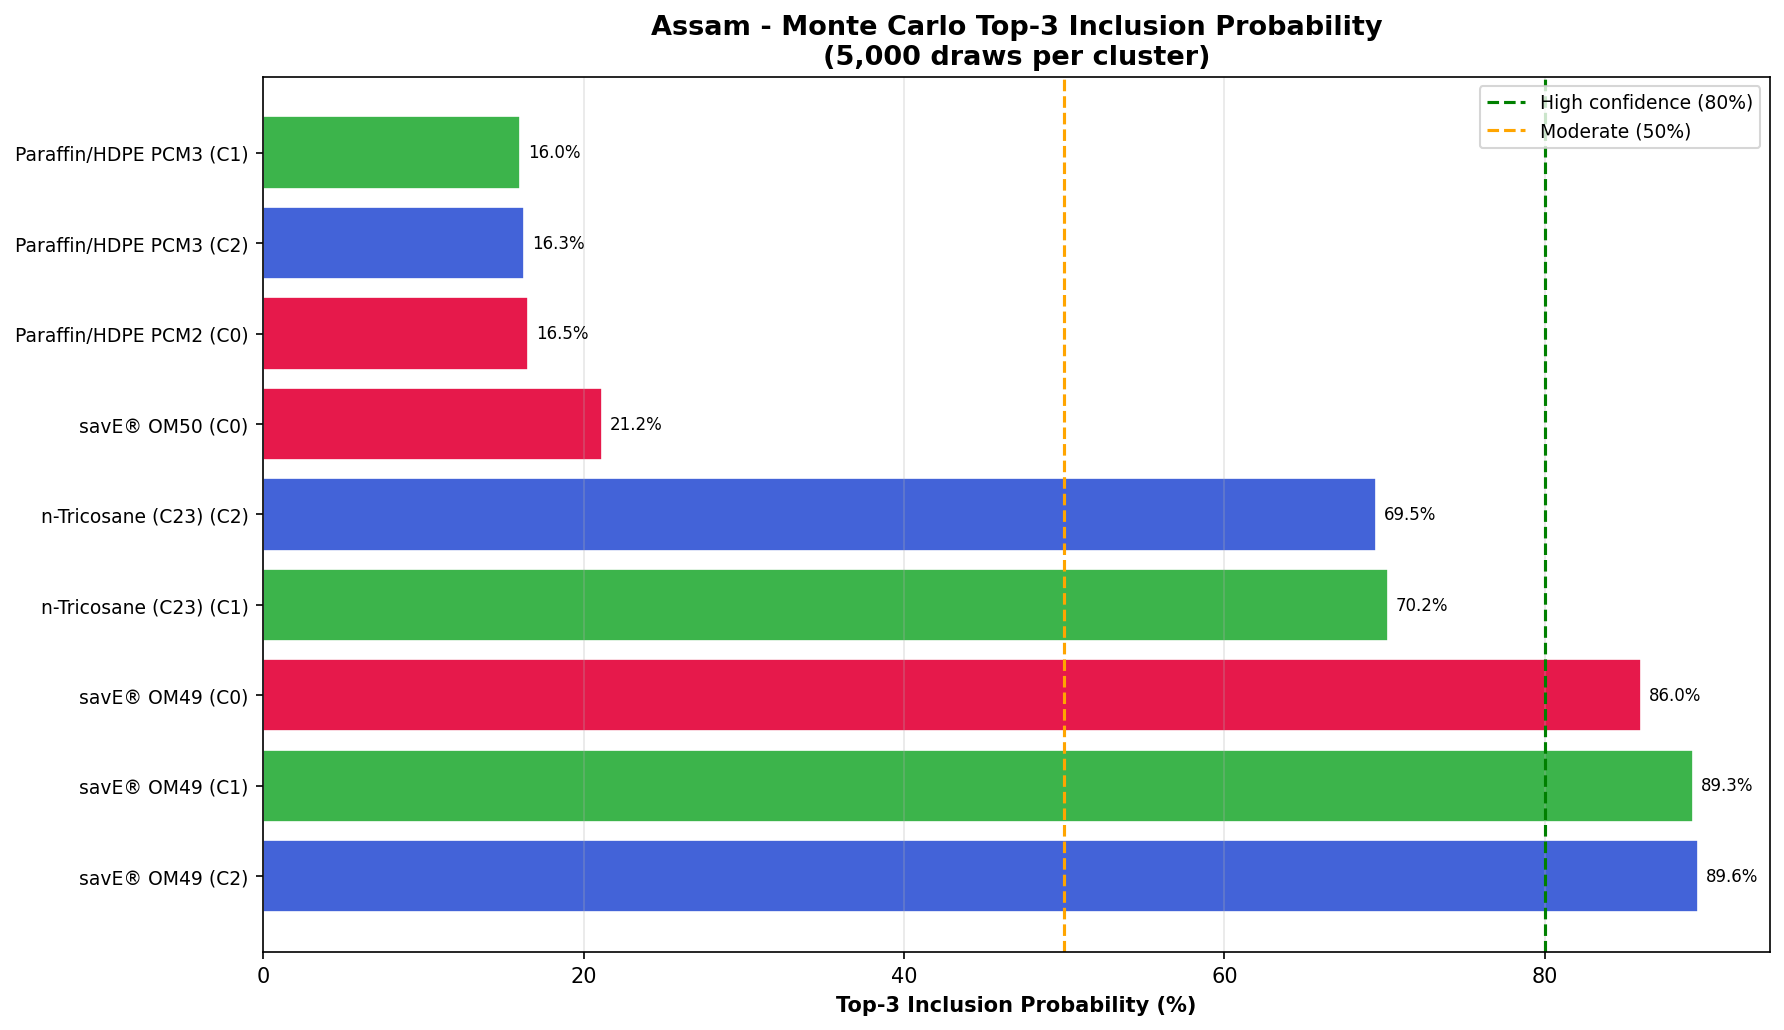
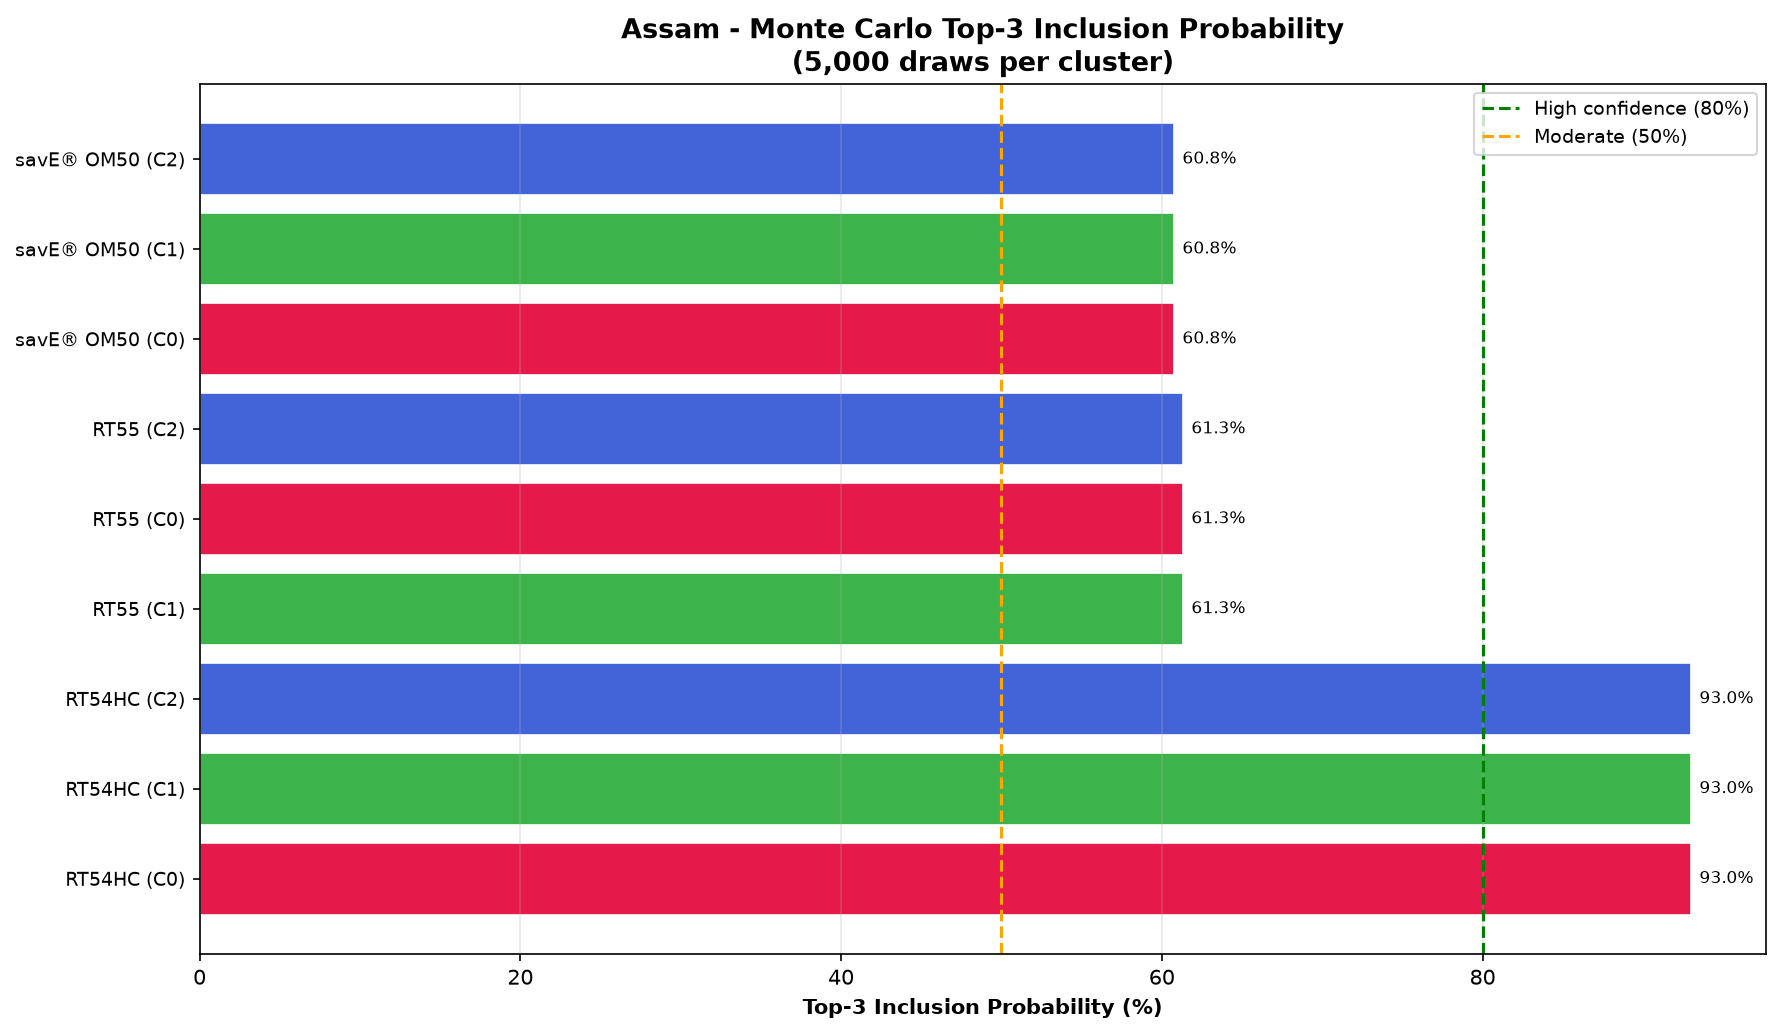
chore(plots): add Assam Monte Carlo Top-3 inclusion plot (5,000 draws)

diff --git a/public/plots/assam/09_monte_carlo_top3_probability_interactive.html b/public/plots/assam/09_monte_carlo_top3_probability_interactive.html
@@ -6,6 +6,6 @@
 </head>
 <body>
     <div style="height:600px; width:100%;">                        <script>window.PlotlyConfig = {MathJaxConfig: 'local'};</script>
-        <script charset="utf-8" src="https://cdn.plot.ly/plotly-4.1.1.min.js" integrity="sha256-O24V1F27f8pb0glCkelh3cVHLNiHAJ5gCaVtq2aNch8=" crossorigin="anonymous"></script>                <div id="2d48a1cb-5ec1-486a-86c3-a5f1083ad36d" class="plotly-graph-div" style="height:100%; width:100%;"></div>            <script>                window.PLOTLYENV=window.PLOTLYENV || {};                                if (document.getElementById("2d48a1cb-5ec1-486a-86c3-a5f1083ad36d")) {                    Plotly.newPlot(                        "2d48a1cb-5ec1-486a-86c3-a5f1083ad36d",                        [{"hovertemplate":"Cluster=2\u003cbr\u003eTop-3 Inclusion Probability (%)=%{x}\u003cbr\u003ePCM Candidate=%{y}\u003cextra\u003e\u003c\u002fextra\u003e","legendgroup":"2","marker":{"color":"rgb(228,26,28)","pattern":{"shape":""}},"name":"2","orientation":"h","showlegend":true,"textposition":"auto","x":{"dtype":"f8","bdata":"pHA9CtdjVkAfhetRuF5RQEjhehSuRzBA"},"xaxis":"x","y":["savE® OM49","n-Tricosane (C23)","Paraffin\u002fHDPE PCM3"],"yaxis":"y","type":"bar"},{"hovertemplate":"Cluster=1\u003cbr\u003eTop-3 Inclusion Probability (%)=%{x}\u003cbr\u003ePCM Candidate=%{y}\u003cextra\u003e\u003c\u002fextra\u003e","legendgroup":"1","marker":{"color":"rgb(55,126,184)","pattern":{"shape":""}},"name":"1","orientation":"h","showlegend":true,"textposition":"auto","x":{"dtype":"f8","bdata":"cD0K16NQVkDMzMzMzIxRQIXrUbgeBTBA"},"xaxis":"x","y":["savE® OM49","n-Tricosane (C23)","Paraffin\u002fHDPE PCM3"],"yaxis":"y","type":"bar"},{"hovertemplate":"Cluster=0\u003cbr\u003eTop-3 Inclusion Probability (%)=%{x}\u003cbr\u003ePCM Candidate=%{y}\u003cextra\u003e\u003c\u002fextra\u003e","legendgroup":"0","marker":{"color":"rgb(77,175,74)","pattern":{"shape":""}},"name":"0","orientation":"h","showlegend":true,"textposition":"auto","x":{"dtype":"f8","bdata":"AAAAAACAVUApXI\u002fC9Sg1QIbrUbgehTBA"},"xaxis":"x","y":["savE® OM49","savE® OM50","Paraffin\u002fHDPE PCM2"],"yaxis":"y","type":"bar"}],                        {"template":{"data":{"barpolar":[{"marker":{"line":{"color":"white","width":0.5},"pattern":{"fillmode":"overlay","size":10,"solidity":0.2}},"type":"barpolar"}],"bar":[{"error_x":{"color":"#2a3f5f"},"error_y":{"color":"#2a3f5f"},"marker":{"line":{"color":"white","width":0.5},"pattern":{"fillmode":"overlay","size":10,"solidity":0.2}},"type":"bar"}],"carpet":[{"aaxis":{"endlinecolor":"#2a3f5f","gridcolor":"#C8D4E3","linecolor":"#C8D4E3","minorgridcolor":"#C8D4E3","startlinecolor":"#2a3f5f"},"baxis":{"endlinecolor":"#2a3f5f","gridcolor":"#C8D4E3","linecolor":"#C8D4E3","minorgridcolor":"#C8D4E3","startlinecolor":"#2a3f5f"},"type":"carpet"}],"choropleth":[{"colorbar":{"outlinewidth":0,"ticks":""},"type":"choropleth"}],"contourcarpet":[{"colorbar":{"outlinewidth":0,"ticks":""},"type":"contourcarpet"}],"contour":[{"colorbar":{"outlinewidth":0,"ticks":""},"colorscale":[[0.0,"#0d0887"],[0.1111111111111111,"#46039f"],[0.2222222222222222,"#7201a8"],[0.3333333333333333,"#9c179e"],[0.4444444444444444,"#bd3786"],[0.5555555555555556,"#d8576b"],[0.6666666666666666,"#ed7953"],[0.7777777777777778,"#fb9f3a"],[0.8888888888888888,"#fdca26"],[1.0,"#f0f921"]],"type":"contour"}],"heatmap":[{"colorbar":{"outlinewidth":0,"ticks":""},"colorscale":[[0.0,"#0d0887"],[0.1111111111111111,"#46039f"],[0.2222222222222222,"#7201a8"],[0.3333333333333333,"#9c179e"],[0.4444444444444444,"#bd3786"],[0.5555555555555556,"#d8576b"],[0.6666666666666666,"#ed7953"],[0.7777777777777778,"#fb9f3a"],[0.8888888888888888,"#fdca26"],[1.0,"#f0f921"]],"type":"heatmap"}],"histogram2dcontour":[{"colorbar":{"outlinewidth":0,"ticks":""},"colorscale":[[0.0,"#0d0887"],[0.1111111111111111,"#46039f"],[0.2222222222222222,"#7201a8"],[0.3333333333333333,"#9c179e"],[0.4444444444444444,"#bd3786"],[0.5555555555555556,"#d8576b"],[0.6666666666666666,"#ed7953"],[0.7777777777777778,"#fb9f3a"],[0.8888888888888888,"#fdca26"],[1.0,"#f0f921"]],"type":"histogram2dcontour"}],"histogram2d":[{"colorbar":{"outlinewidth":0,"ticks":""},"colorscale":[[0.0,"#0d0887"],[0.1111111111111111,"#46039f"],[0.2222222222222222,"#7201a8"],[0.3333333333333333,"#9c179e"],[0.4444444444444444,"#bd3786"],[0.5555555555555556,"#d8576b"],[0.6666666666666666,"#ed7953"],[0.7777777777777778,"#fb9f3a"],[0.8888888888888888,"#fdca26"],[1.0,"#f0f921"]],"type":"histogram2d"}],"histogram":[{"marker":{"pattern":{"fillmode":"overlay","size":10,"solidity":0.2}},"type":"histogram"}],"mesh3d":[{"colorbar":{"outlinewidth":0,"ticks":""},"type":"mesh3d"}],"parcoords":[{"line":{"colorbar":{"outlinewidth":0,"ticks":""}},"type":"parcoords"}],"pie":[{"automargin":true,"type":"pie"}],"scatter3d":[{"line":{"colorbar":{"outlinewidth":0,"ticks":""}},"marker":{"colorbar":{"outlinewidth":0,"ticks":""}},"type":"scatter3d"}],"scattercarpet":[{"marker":{"colorbar":{"outlinewidth":0,"ticks":""}},"type":"scattercarpet"}],"scattergeo":[{"marker":{"colorbar":{"outlinewidth":0,"ticks":""}},"type":"scattergeo"}],"scattergl":[{"marker":{"colorbar":{"outlinewidth":0,"ticks":""}},"type":"scattergl"}],"scattermap":[{"marker":{"colorbar":{"outlinewidth":0,"ticks":""}},"type":"scattermap"}],"scatterpolargl":[{"marker":{"colorbar":{"outlinewidth":0,"ticks":""}},"type":"scatterpolargl"}],"scatterpolar":[{"marker":{"colorbar":{"outlinewidth":0,"ticks":""}},"type":"scatterpolar"}],"scatter":[{"fillpattern":{"fillmode":"overlay","size":10,"solidity":0.2},"type":"scatter"}],"scatterternary":[{"marker":{"colorbar":{"outlinewidth":0,"ticks":""}},"type":"scatterternary"}],"surface":[{"colorbar":{"outlinewidth":0,"ticks":""},"colorscale":[[0.0,"#0d0887"],[0.1111111111111111,"#46039f"],[0.2222222222222222,"#7201a8"],[0.3333333333333333,"#9c179e"],[0.4444444444444444,"#bd3786"],[0.5555555555555556,"#d8576b"],[0.6666666666666666,"#ed7953"],[0.7777777777777778,"#fb9f3a"],[0.8888888888888888,"#fdca26"],[1.0,"#f0f921"]],"type":"surface"}],"table":[{"cells":{"fill":{"color":"#EBF0F8"},"line":{"color":"white"}},"header":{"fill":{"color":"#C8D4E3"},"line":{"color":"white"}},"type":"table"}]},"layout":{"annotationdefaults":{"arrowcolor":"#2a3f5f","arrowhead":0,"arrowwidth":1},"autotypenumbers":"strict","coloraxis":{"colorbar":{"outlinewidth":0,"ticks":""}},"colorscale":{"diverging":[[0,"#8e0152"],[0.1,"#c51b7d"],[0.2,"#de77ae"],[0.3,"#f1b6da"],[0.4,"#fde0ef"],[0.5,"#f7f7f7"],[0.6,"#e6f5d0"],[0.7,"#b8e186"],[0.8,"#7fbc41"],[0.9,"#4d9221"],[1,"#276419"]],"sequential":[[0.0,"#0d0887"],[0.1111111111111111,"#46039f"],[0.2222222222222222,"#7201a8"],[0.3333333333333333,"#9c179e"],[0.4444444444444444,"#bd3786"],[0.5555555555555556,"#d8576b"],[0.6666666666666666,"#ed7953"],[0.7777777777777778,"#fb9f3a"],[0.8888888888888888,"#fdca26"],[1.0,"#f0f921"]],"sequentialminus":[[0.0,"#0d0887"],[0.1111111111111111,"#46039f"],[0.2222222222222222,"#7201a8"],[0.3333333333333333,"#9c179e"],[0.4444444444444444,"#bd3786"],[0.5555555555555556,"#d8576b"],[0.6666666666666666,"#ed7953"],[0.7777777777777778,"#fb9f3a"],[0.8888888888888888,"#fdca26"],[1.0,"#f0f921"]]},"colorway":["#636efa","#EF553B","#00cc96","#ab63fa","#FFA15A","#19d3f3","#FF6692","#B6E880","#FF97FF","#FECB52"],"font":{"color":"#2a3f5f"},"geo":{"bgcolor":"white","lakecolor":"white","landcolor":"white","showlakes":true,"showland":true,"subunitcolor":"#C8D4E3"},"hoverlabel":{"align":"left"},"hovermode":"closest","paper_bgcolor":"white","plot_bgcolor":"white","polar":{"angularaxis":{"gridcolor":"#EBF0F8","linecolor":"#EBF0F8","ticks":""},"bgcolor":"white","radialaxis":{"gridcolor":"#EBF0F8","linecolor":"#EBF0F8","ticks":""}},"scene":{"xaxis":{"backgroundcolor":"white","gridcolor":"#DFE8F3","gridwidth":2,"linecolor":"#EBF0F8","showbackground":true,"ticks":"","zerolinecolor":"#EBF0F8"},"yaxis":{"backgroundcolor":"white","gridcolor":"#DFE8F3","gridwidth":2,"linecolor":"#EBF0F8","showbackground":true,"ticks":"","zerolinecolor":"#EBF0F8"},"zaxis":{"backgroundcolor":"white","gridcolor":"#DFE8F3","gridwidth":2,"linecolor":"#EBF0F8","showbackground":true,"ticks":"","zerolinecolor":"#EBF0F8"}},"shapedefaults":{"line":{"color":"#2a3f5f"}},"ternary":{"aaxis":{"gridcolor":"#DFE8F3","linecolor":"#A2B1C6","ticks":""},"baxis":{"gridcolor":"#DFE8F3","linecolor":"#A2B1C6","ticks":""},"bgcolor":"white","caxis":{"gridcolor":"#DFE8F3","linecolor":"#A2B1C6","ticks":""}},"title":{"x":0.05},"xaxis":{"automargin":true,"gridcolor":"#EBF0F8","linecolor":"#EBF0F8","ticks":"","title":{"standoff":15},"zerolinecolor":"#EBF0F8","zerolinewidth":2},"yaxis":{"automargin":true,"gridcolor":"#EBF0F8","linecolor":"#EBF0F8","ticks":"","title":{"standoff":15},"zerolinecolor":"#EBF0F8","zerolinewidth":2}}},"xaxis":{"anchor":"y","domain":[0.0,1.0],"title":{"text":"Top-3 Inclusion Probability (%)"}},"yaxis":{"anchor":"x","domain":[0.0,1.0],"title":{"text":"PCM Candidate"}},"legend":{"title":{"text":"Cluster"},"tracegroupgap":0},"title":{"text":"Assam - Monte Carlo Top-3 Inclusion Probability (5,000 draws)"},"barmode":"relative","height":600},                        {"responsive": true}                    )                };            </script>        </div>
+        <script charset="utf-8" src="https://cdn.plot.ly/plotly-4.0.0.min.js" integrity="sha256-FEYfO0yRyLtZCpnW0Dw/0DHKQO7Afrq3ml4+rBB818o=" crossorigin="anonymous"></script>                <div id="6cae503c-4cd5-4c8a-b8fa-f261ff76f9f3" class="plotly-graph-div" style="height:100%; width:100%;"></div>            <script>                window.PLOTLYENV=window.PLOTLYENV || {};                                if (document.getElementById("6cae503c-4cd5-4c8a-b8fa-f261ff76f9f3")) {                    Plotly.newPlot(                        "6cae503c-4cd5-4c8a-b8fa-f261ff76f9f3",                        [{"hovertemplate":"Cluster=0\u003cbr\u003eTop-3 Inclusion Probability (%)=%{x}\u003cbr\u003ePCM Candidate=%{y}\u003cextra\u003e\u003c\u002fextra\u003e","legendgroup":"0","marker":{"color":"rgb(228,26,28)","pattern":{"shape":""}},"name":"0","orientation":"h","showlegend":true,"textposition":"auto","x":{"dtype":"f8","bdata":"4XoUrkdBV0DrUbgehatOQKRwPQrXY05A"},"xaxis":"x","y":["RT54HC","RT55","savE® OM50"],"yaxis":"y","type":"bar"},{"hovertemplate":"Cluster=1\u003cbr\u003eTop-3 Inclusion Probability (%)=%{x}\u003cbr\u003ePCM Candidate=%{y}\u003cextra\u003e\u003c\u002fextra\u003e","legendgroup":"1","marker":{"color":"rgb(55,126,184)","pattern":{"shape":""}},"name":"1","orientation":"h","showlegend":true,"textposition":"auto","x":{"dtype":"f8","bdata":"4XoUrkdBV0DrUbgehatOQKRwPQrXY05A"},"xaxis":"x","y":["RT54HC","RT55","savE® OM50"],"yaxis":"y","type":"bar"},{"hovertemplate":"Cluster=2\u003cbr\u003eTop-3 Inclusion Probability (%)=%{x}\u003cbr\u003ePCM Candidate=%{y}\u003cextra\u003e\u003c\u002fextra\u003e","legendgroup":"2","marker":{"color":"rgb(77,175,74)","pattern":{"shape":""}},"name":"2","orientation":"h","showlegend":true,"textposition":"auto","x":{"dtype":"f8","bdata":"4XoUrkdBV0DrUbgehatOQKRwPQrXY05A"},"xaxis":"x","y":["RT54HC","RT55","savE® OM50"],"yaxis":"y","type":"bar"}],                        {"template":{"data":{"barpolar":[{"marker":{"line":{"color":"white","width":0.5},"pattern":{"fillmode":"overlay","size":10,"solidity":0.2}},"type":"barpolar"}],"bar":[{"error_x":{"color":"#2a3f5f"},"error_y":{"color":"#2a3f5f"},"marker":{"line":{"color":"white","width":0.5},"pattern":{"fillmode":"overlay","size":10,"solidity":0.2}},"type":"bar"}],"carpet":[{"aaxis":{"endlinecolor":"#2a3f5f","gridcolor":"#C8D4E3","linecolor":"#C8D4E3","minorgridcolor":"#C8D4E3","startlinecolor":"#2a3f5f"},"baxis":{"endlinecolor":"#2a3f5f","gridcolor":"#C8D4E3","linecolor":"#C8D4E3","minorgridcolor":"#C8D4E3","startlinecolor":"#2a3f5f"},"type":"carpet"}],"choropleth":[{"colorbar":{"outlinewidth":0,"ticks":""},"type":"choropleth"}],"contourcarpet":[{"colorbar":{"outlinewidth":0,"ticks":""},"type":"contourcarpet"}],"contour":[{"colorbar":{"outlinewidth":0,"ticks":""},"colorscale":[[0.0,"#0d0887"],[0.1111111111111111,"#46039f"],[0.2222222222222222,"#7201a8"],[0.3333333333333333,"#9c179e"],[0.4444444444444444,"#bd3786"],[0.5555555555555556,"#d8576b"],[0.6666666666666666,"#ed7953"],[0.7777777777777778,"#fb9f3a"],[0.8888888888888888,"#fdca26"],[1.0,"#f0f921"]],"type":"contour"}],"heatmap":[{"colorbar":{"outlinewidth":0,"ticks":""},"colorscale":[[0.0,"#0d0887"],[0.1111111111111111,"#46039f"],[0.2222222222222222,"#7201a8"],[0.3333333333333333,"#9c179e"],[0.4444444444444444,"#bd3786"],[0.5555555555555556,"#d8576b"],[0.6666666666666666,"#ed7953"],[0.7777777777777778,"#fb9f3a"],[0.8888888888888888,"#fdca26"],[1.0,"#f0f921"]],"type":"heatmap"}],"histogram2dcontour":[{"colorbar":{"outlinewidth":0,"ticks":""},"colorscale":[[0.0,"#0d0887"],[0.1111111111111111,"#46039f"],[0.2222222222222222,"#7201a8"],[0.3333333333333333,"#9c179e"],[0.4444444444444444,"#bd3786"],[0.5555555555555556,"#d8576b"],[0.6666666666666666,"#ed7953"],[0.7777777777777778,"#fb9f3a"],[0.8888888888888888,"#fdca26"],[1.0,"#f0f921"]],"type":"histogram2dcontour"}],"histogram2d":[{"colorbar":{"outlinewidth":0,"ticks":""},"colorscale":[[0.0,"#0d0887"],[0.1111111111111111,"#46039f"],[0.2222222222222222,"#7201a8"],[0.3333333333333333,"#9c179e"],[0.4444444444444444,"#bd3786"],[0.5555555555555556,"#d8576b"],[0.6666666666666666,"#ed7953"],[0.7777777777777778,"#fb9f3a"],[0.8888888888888888,"#fdca26"],[1.0,"#f0f921"]],"type":"histogram2d"}],"histogram":[{"marker":{"pattern":{"fillmode":"overlay","size":10,"solidity":0.2}},"type":"histogram"}],"mesh3d":[{"colorbar":{"outlinewidth":0,"ticks":""},"type":"mesh3d"}],"parcoords":[{"line":{"colorbar":{"outlinewidth":0,"ticks":""}},"type":"parcoords"}],"pie":[{"automargin":true,"type":"pie"}],"scatter3d":[{"line":{"colorbar":{"outlinewidth":0,"ticks":""}},"marker":{"colorbar":{"outlinewidth":0,"ticks":""}},"type":"scatter3d"}],"scattercarpet":[{"marker":{"colorbar":{"outlinewidth":0,"ticks":""}},"type":"scattercarpet"}],"scattergeo":[{"marker":{"colorbar":{"outlinewidth":0,"ticks":""}},"type":"scattergeo"}],"scattergl":[{"marker":{"colorbar":{"outlinewidth":0,"ticks":""}},"type":"scattergl"}],"scattermap":[{"marker":{"colorbar":{"outlinewidth":0,"ticks":""}},"type":"scattermap"}],"scatterpolargl":[{"marker":{"colorbar":{"outlinewidth":0,"ticks":""}},"type":"scatterpolargl"}],"scatterpolar":[{"marker":{"colorbar":{"outlinewidth":0,"ticks":""}},"type":"scatterpolar"}],"scatter":[{"fillpattern":{"fillmode":"overlay","size":10,"solidity":0.2},"type":"scatter"}],"scatterternary":[{"marker":{"colorbar":{"outlinewidth":0,"ticks":""}},"type":"scatterternary"}],"surface":[{"colorbar":{"outlinewidth":0,"ticks":""},"colorscale":[[0.0,"#0d0887"],[0.1111111111111111,"#46039f"],[0.2222222222222222,"#7201a8"],[0.3333333333333333,"#9c179e"],[0.4444444444444444,"#bd3786"],[0.5555555555555556,"#d8576b"],[0.6666666666666666,"#ed7953"],[0.7777777777777778,"#fb9f3a"],[0.8888888888888888,"#fdca26"],[1.0,"#f0f921"]],"type":"surface"}],"table":[{"cells":{"fill":{"color":"#EBF0F8"},"line":{"color":"white"}},"header":{"fill":{"color":"#C8D4E3"},"line":{"color":"white"}},"type":"table"}]},"layout":{"annotationdefaults":{"arrowcolor":"#2a3f5f","arrowhead":0,"arrowwidth":1},"autotypenumbers":"strict","coloraxis":{"colorbar":{"outlinewidth":0,"ticks":""}},"colorscale":{"diverging":[[0,"#8e0152"],[0.1,"#c51b7d"],[0.2,"#de77ae"],[0.3,"#f1b6da"],[0.4,"#fde0ef"],[0.5,"#f7f7f7"],[0.6,"#e6f5d0"],[0.7,"#b8e186"],[0.8,"#7fbc41"],[0.9,"#4d9221"],[1,"#276419"]],"sequential":[[0.0,"#0d0887"],[0.1111111111111111,"#46039f"],[0.2222222222222222,"#7201a8"],[0.3333333333333333,"#9c179e"],[0.4444444444444444,"#bd3786"],[0.5555555555555556,"#d8576b"],[0.6666666666666666,"#ed7953"],[0.7777777777777778,"#fb9f3a"],[0.8888888888888888,"#fdca26"],[1.0,"#f0f921"]],"sequentialminus":[[0.0,"#0d0887"],[0.1111111111111111,"#46039f"],[0.2222222222222222,"#7201a8"],[0.3333333333333333,"#9c179e"],[0.4444444444444444,"#bd3786"],[0.5555555555555556,"#d8576b"],[0.6666666666666666,"#ed7953"],[0.7777777777777778,"#fb9f3a"],[0.8888888888888888,"#fdca26"],[1.0,"#f0f921"]]},"colorway":["#636efa","#EF553B","#00cc96","#ab63fa","#FFA15A","#19d3f3","#FF6692","#B6E880","#FF97FF","#FECB52"],"font":{"color":"#2a3f5f"},"geo":{"bgcolor":"white","lakecolor":"white","landcolor":"white","showlakes":true,"showland":true,"subunitcolor":"#C8D4E3"},"hoverlabel":{"align":"left"},"hovermode":"closest","paper_bgcolor":"white","plot_bgcolor":"white","polar":{"angularaxis":{"gridcolor":"#EBF0F8","linecolor":"#EBF0F8","ticks":""},"bgcolor":"white","radialaxis":{"gridcolor":"#EBF0F8","linecolor":"#EBF0F8","ticks":""}},"scene":{"xaxis":{"backgroundcolor":"white","gridcolor":"#DFE8F3","gridwidth":2,"linecolor":"#EBF0F8","showbackground":true,"ticks":"","zerolinecolor":"#EBF0F8"},"yaxis":{"backgroundcolor":"white","gridcolor":"#DFE8F3","gridwidth":2,"linecolor":"#EBF0F8","showbackground":true,"ticks":"","zerolinecolor":"#EBF0F8"},"zaxis":{"backgroundcolor":"white","gridcolor":"#DFE8F3","gridwidth":2,"linecolor":"#EBF0F8","showbackground":true,"ticks":"","zerolinecolor":"#EBF0F8"}},"shapedefaults":{"line":{"color":"#2a3f5f"}},"ternary":{"aaxis":{"gridcolor":"#DFE8F3","linecolor":"#A2B1C6","ticks":""},"baxis":{"gridcolor":"#DFE8F3","linecolor":"#A2B1C6","ticks":""},"bgcolor":"white","caxis":{"gridcolor":"#DFE8F3","linecolor":"#A2B1C6","ticks":""}},"title":{"x":0.05},"xaxis":{"automargin":true,"gridcolor":"#EBF0F8","linecolor":"#EBF0F8","ticks":"","title":{"standoff":15},"zerolinecolor":"#EBF0F8","zerolinewidth":2},"yaxis":{"automargin":true,"gridcolor":"#EBF0F8","linecolor":"#EBF0F8","ticks":"","title":{"standoff":15},"zerolinecolor":"#EBF0F8","zerolinewidth":2}}},"xaxis":{"anchor":"y","domain":[0.0,1.0],"title":{"text":"Top-3 Inclusion Probability (%)"}},"yaxis":{"anchor":"x","domain":[0.0,1.0],"title":{"text":"PCM Candidate"}},"legend":{"title":{"text":"Cluster"},"tracegroupgap":0},"title":{"text":"Assam - Monte Carlo Top-3 Inclusion Probability (5,000 draws)"},"barmode":"relative","height":600},                        {"responsive": true}                    )                };            </script>        </div>
 </body>
 </html>
